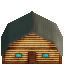
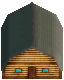
Bigger and overlapping building sprites .. awesome

diff --git a/crown/Mechanics.cs b/crown/Mechanics.cs
@@ -55,9 +55,9 @@ namespace crown {
                 foodTick++;
                 if (foodTick > 50) {
                     foodTick = 0;
-                    food -= population / 2 < 0 ? 0 : population / 2;
+                    food -= (food - population / 2) < 0 ? 0 : population / 2;
 
-                    // TODO: Wenn food < 0 dann sterben erst arbeitslose, dann worker
+                    // TODO: Wenn food <= 0 dann sterben erst arbeitslose, dann worker
                 }
 
                 // People gotta pay taxes
@@ -73,31 +73,31 @@ namespace crown {
         private void UpdateBuildings() {
             // Building updates
             foreach (Building bld in buildings) {
-                if (bld.BuildingTick < 5) {
+                if (bld.BuildingTick < 5)
                     bld.BuildingTick++;
 
-                    if (bld.BuildingTick >= 5) {
-                        if (bld.BuildingState <= 3) {
-                            // Go through the different build phases
-                            UpdateBuildingSprites(bld);
-                        }
-                        if (bld.BuildingState == 4) {
-                            if (bld.Type == Building.BuildingTypes.HOUSE) {
-                                // People move in and are ready to work
-                                InitializeHouse(bld);
-                            }
-                            // Townhall can store stuff now and brings initial food
-                            if (bld.Type == Building.BuildingTypes.TOWNHALL) {
-                                InitializeTownhall();
-                            }
-                            bld.BuildingState = 5;
-                        }
-                        if (bld.BuildingState == 5) {
-                            // Do something building related, 5 is the final state
-                        }
-                        bld.BuildingTick = 0;
+                if (bld.BuildingTick >= 5) {
+                    if (bld.BuildingState <= 3) {
+                        // Go through the different build phases
+                        UpdateBuildingSprites(bld);
                     }
+                    if (bld.BuildingState == 4) {
+                        if (bld.Type == Building.BuildingTypes.HOUSE) {
+                            // People move in and are ready to work
+                            InitializeHouse(bld);
+                        }
+                        // Townhall can store stuff now and brings initial food
+                        if (bld.Type == Building.BuildingTypes.TOWNHALL) {
+                            InitializeTownhall();
+                        }
+                        bld.BuildingState = 5;
+                    }
+                    if (bld.BuildingState == 5) {
+                        // Do something building related, 5 is the final state
+                    }
+                    bld.BuildingTick = 0;
                 }
+
             }
         }
 

diff --git a/crown/Controls/Controls.cs b/crown/Controls/Controls.cs
@@ -1,6 +1,8 @@
 using crown.Terrain;
 using Microsoft.Xna.Framework;
 using Microsoft.Xna.Framework.Input;
+using System.Collections.Generic;
+using System.Linq;
 using TexturePackerLoader;
 using static crown.Game1;
 
@@ -33,6 +35,14 @@ namespace crown {
                     }
 
                 }
+
+            // Sort buildings for rendering later
+            IOrderedEnumerable<Building> sortedBuildings = mechanics.Buildings.OrderBy(building => building.Position.Y);
+            mechanics.Buildings = new List<Building>();
+            foreach (Building building in sortedBuildings) {
+                mechanics.Buildings.Add(building);
+            }
+
             mechanics.MaxPop = mechanics.GetMaxPop();
             return mouseAction;
         }

diff --git a/crown/Drawing.cs b/crown/Drawing.cs
@@ -38,7 +38,12 @@ namespace crown {
 
         public static void DrawBuildings(SpriteRender spriteRender, List<Building> buildings) {
             foreach (Building building in buildings) {
-                spriteRender.Draw(building.SpriteFrame, building.Position);
+                int offset = 0;
+                if (building.SpriteFrame != buildingTileSheet.Sprite(TexturePackerMonoGameDefinitions.buildingAtlas.SmallSelect)
+                 && building.SpriteFrame != buildingTileSheet.Sprite(TexturePackerMonoGameDefinitions.buildingAtlas.LargeSelect))
+                    offset = tileSize / 4;
+
+                spriteRender.Draw(building.SpriteFrame, new Vector2(building.Position.X, building.Position.Y - offset));
             }
         }
 

diff --git a/crown/SpriteSheets/buildingAtlas.cs b/crown/SpriteSheets/buildingAtlas.cs
@@ -4,7 +4,7 @@
  * Contains references to each image within the sprite sheet.
  *
  * http://www.codeandweb.com/texturepacker
- * $TexturePacker:SmartUpdate:767fabbcfb6ebf3173ca5fb2ffde5156:853e36102f41a24e9628571125eeb5fd:905072b72ea92acf8fa5b0216a681f3c$
+ * $TexturePacker:SmartUpdate:d4e17ed33db13df125821dec5c8e45be:5b376e43548ee98dbc2bf87e344f3816:905072b72ea92acf8fa5b0216a681f3c$
  *
  */
 namespace TexturePackerMonoGameDefinitions
